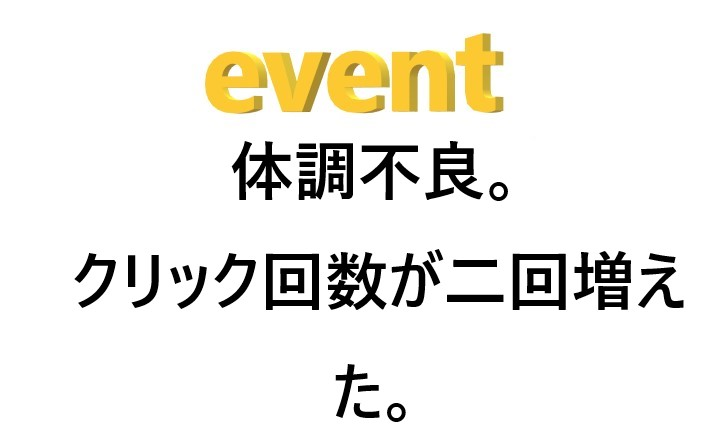
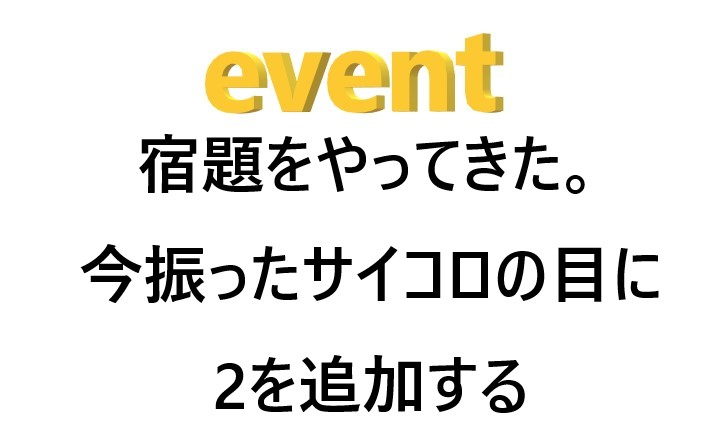
チャンスカードの効果を一部変更

Changed region(s): [[0.0907, 0.5614, 0.9368, 0.7091], [0.1813, 0.2955, 0.8159, 0.4727], [0.272, 0.7977, 0.7253, 0.975]]

diff --git a/msotu.js b/msotu.js
@@ -1,7 +1,7 @@
 let clik = 0; //クリック総数
 let daiceme = 0; //ダイスの目
 let task = [0, 23, 30, 27, 24, 16, 43, 36, 24, 68, 21]; //ストーリーのタスク
-let taskmax = [0, 23, 30, 27, 24, 16, 43, 36, 24, 68, 21]; //タスクの初期値
+let taskmax = [0, 15, 20, 18, 16, 11, 29, 24, 16, 45, 14]; //タスクの初期値
 let rtask = [0, 8, 10, 9, 8, 5, 14, 12, 8, 22, 7];//redyのタスク残量
 let dtask = [0, 15, 20, 18, 16, 11, 29, 24, 16, 45, 14];//doingのタスク残量
 let taskarea = [1, 1, 1, 1, 1, 1, 1, 1, 1, 1, 1]; //タスクがある場所
@@ -208,7 +208,7 @@ function chance() {
   } else if (cf == 0) {
     let ck = Math.floor(Math.random() * 3) + 1;
     if (ck == 1) {
-      let chance = Math.floor(Math.random() * 8) + 1;
+      let chance = Math.floor(Math.random() * 9) + 1;
       document.images['card'].src = "e" + chance + ".jpg"
       event(chance);
     }
@@ -234,15 +234,14 @@ function event(c) {
   }
 
   if (c == 2) {
-    clikc();
-    clikc();
+    daiceme = daiceme + 2;
   }
 
   if (c == 3) {
     window.alert("doingにあるストーリーのタスクが元に戻ってしまった！！")
     for (let i = 1; i < 11; i++) {
       if (taskarea[i] == 2) {
-        task[i] = taskmax[i];
+        dtask[i] = taskmax[i];
       }
     }
     insert();
@@ -250,9 +249,10 @@ function event(c) {
 
   if (c == 4) {
     for (let i = 1; i < 11; i++) {
-      if (res[i] == player) {
+      if (taskarea[i] == 2) {
         dtask[i] = 0;
         problem[i] = 0;
+        break;
       }
     }
     insert();
@@ -280,6 +280,10 @@ function event(c) {
   if (c == 8) {
     daiceme = daiceme / 2;
   }
+  if (c == 9) {
+    daiceme = daiceme + 4;
+  }
+
 }
 
 //solutionを引いたときの処理
